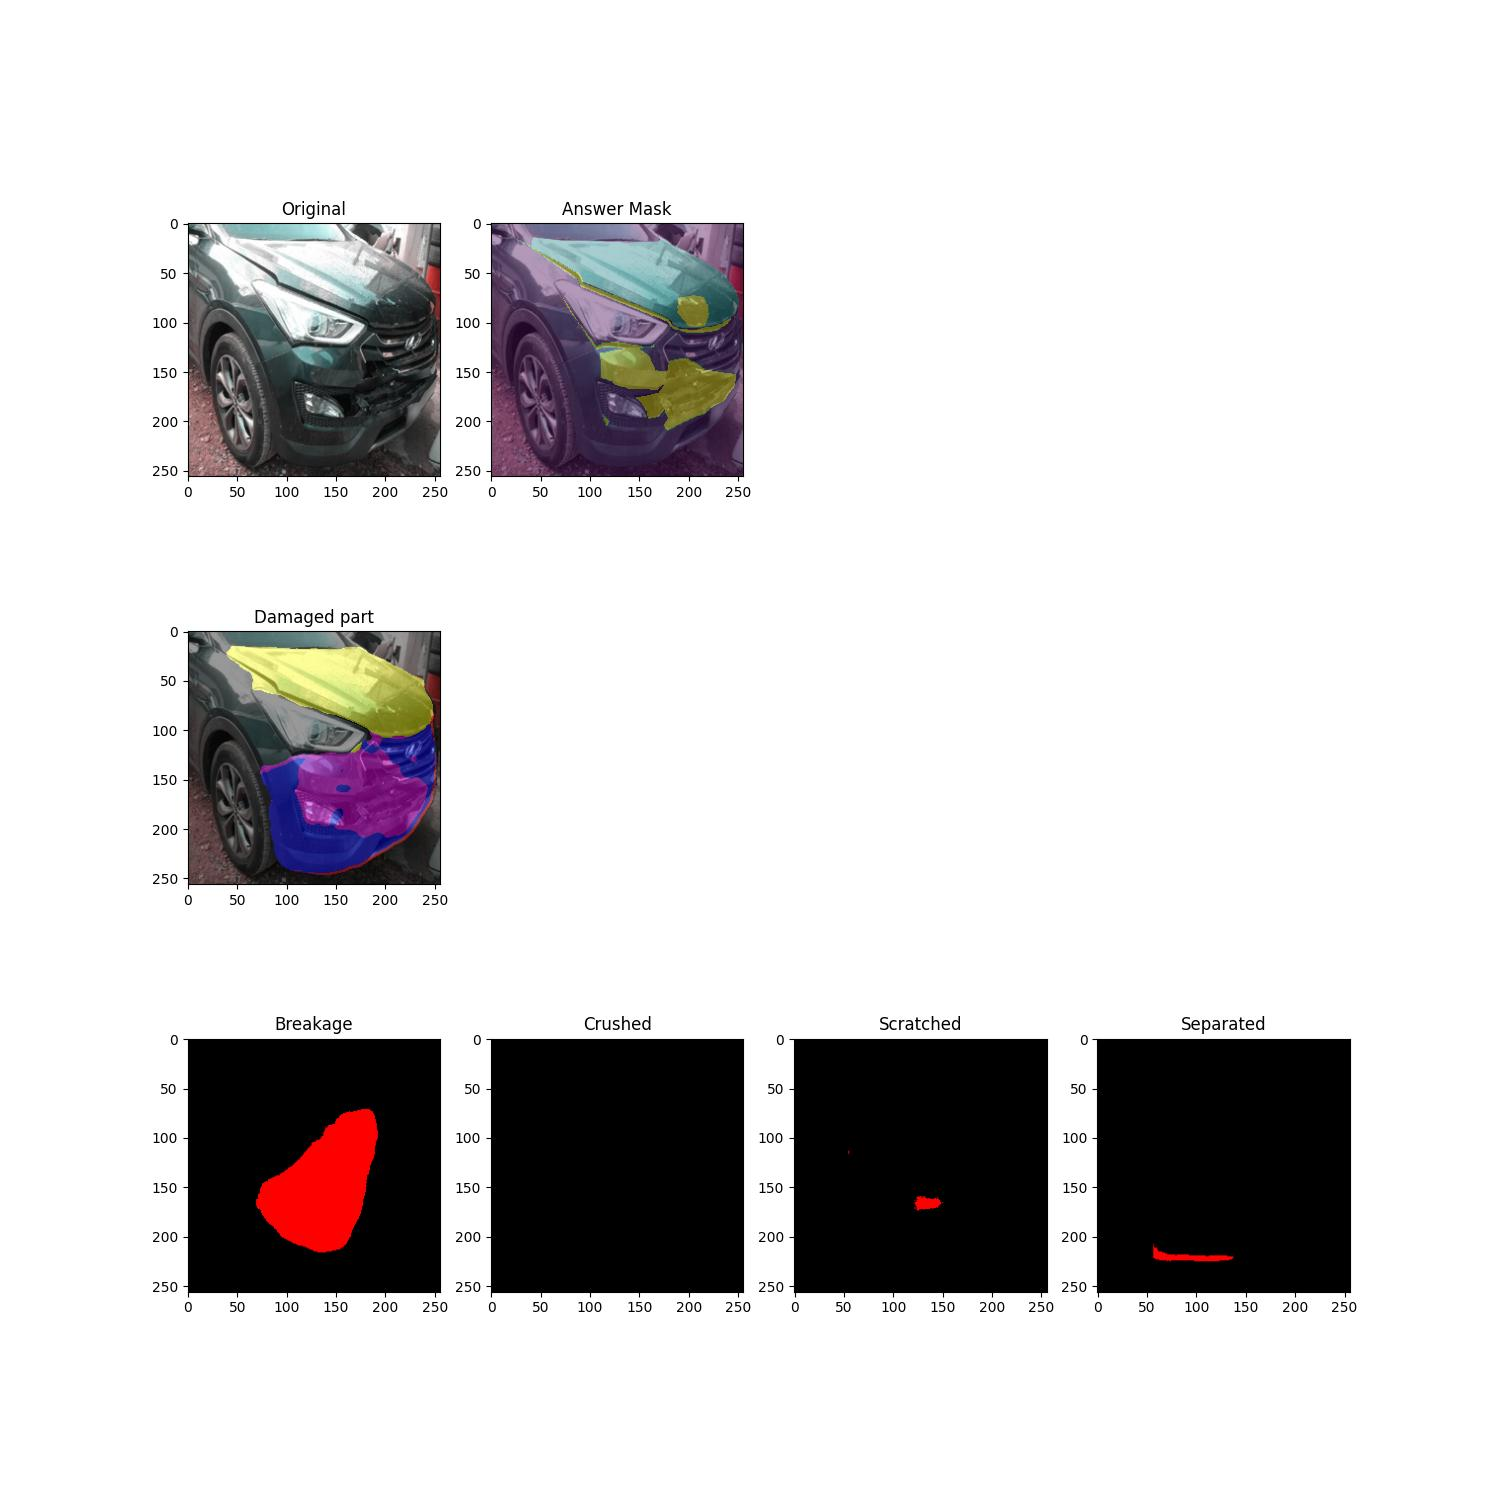
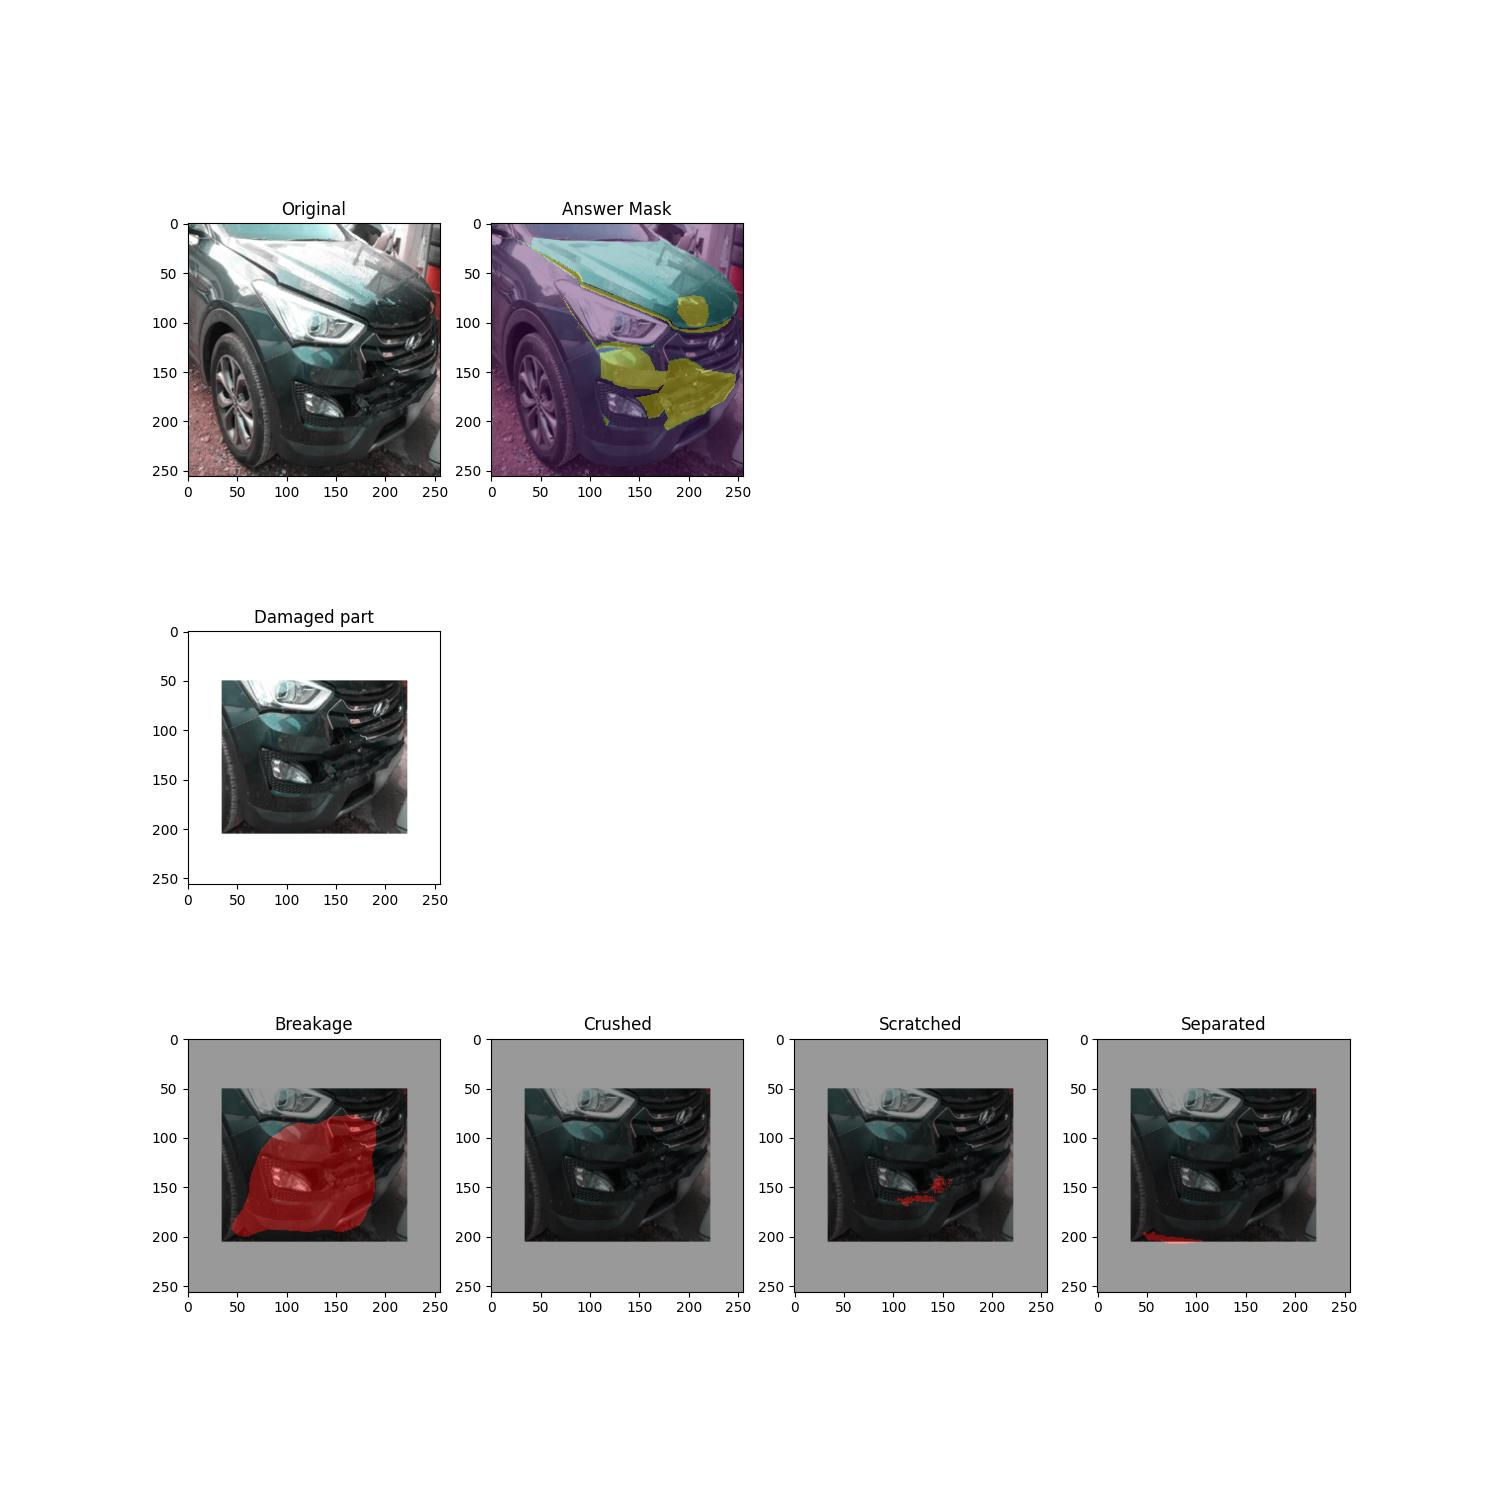
pipeline and api updated

Changed region(s): [[0.1227, 0.6747, 0.92, 0.8587], [0.1227, 0.3987, 0.3067, 0.6133]]

diff --git a/src/api.py b/src/api.py
@@ -1,6 +1,7 @@
 from flask import Flask, Response, request, jsonify
 from flask_cors import CORS
 
+from ultralytics import YOLO
 from Model_UNET import Unet
 from Model_VGG19 import IntelCnnModel
 import torch
@@ -55,37 +56,48 @@ def index():
 
 global origImage
 
-def find_part(predMask):
+def overlap(rect1, rect2):
+     
+    # if rectangle has area 0, no overlap
+    if rect1[0] == rect1[2] or rect1[1] == rect1[3] or rect2[2] == rect2[0] or rect2[1] == rect2[3]:
+        return False
+     
+    # If one rectangle is on left side of other
+    if rect1[0] > rect2[2] or rect2[0] > rect1[2]:
+        return False
+ 
+    # If one rectangle is above other
+    if rect1[3] < rect2[1] or rect2[3] < rect1[1]:
+        return False
+ 
+    return True
+
+def make_part_predictions(model, origImage):
     parts = ["Front bumper","Rear bumper","Front fender(R)","Front fender(L)","Rear fender(R)","Trunk lid","Bonnet","Rear fender(L)","Rear door(R)","Head lights(R)","Head lights(L)","Front Wheel(R)","Front door(R)","Side mirror(R)", "Damage"]
+    damage_indices = []
+    damaged_part_cls = []
+    damaged_part_coor = []
+    damaged_part_conf = []
 
-    # Find and print car part objects
-    data_slices = ndimage.find_objects(predMask)
-    coor = {}
-    try:
-        if ((damage := data_slices[14]) != None):
+    results = model.predict(origImage)
+    results = results[0].cpu().numpy()
 
-            y_start = damage[0].start
-            y_stop = damage[0].stop
+    classes = results.boxes.cls.astype(int)
+    boxes = results.boxes.xyxy.astype(int)
+    conf = results.boxes.conf
 
-            x_start = damage[1].start
-            x_stop = damage[1].stop
+    for num, cls in enumerate(classes):
+        if cls == 14:
+            damage_indices.append(num)
 
-            coor[parts[14]] = (x_start, y_start, x_stop, y_stop)
-           #coor.extend((x_start, y_start, x_stop, y_stop))
+    for dmg_idx in damage_indices:
+        for idx, cls in enumerate(classes):
+            if cls != 14 and overlap(boxes[dmg_idx],boxes[idx]) and parts[cls] not in damaged_part_cls:
+                damaged_part_cls.append(parts[cls])
+                damaged_part_coor.append(boxes[idx])
+                damaged_part_conf.append(conf[idx])
 
-            cut = predMask[y_start:y_stop+1,x_start:x_stop+1,:]
-
-            (values,counts) = np.unique(cut,return_counts=True)
-            count_sort_ind = np.argsort(-counts)
-            for index in count_sort_ind:
-                if values[index] != 0 and values[index] != 15:
-                    coor[parts[values[index]-1]] = (data_slices[values[index]-1][1].start, data_slices[values[index]-1][0].start, data_slices[values[index]-1][1].stop, data_slices[values[index]-1][0].stop)
-                    #print("Part: {}, area: {}%".format(parts[values[index]-1], round((counts[index] / cut.size) * 100, 1)))
-
-            return coor
-
-    except:
-        return None
+    return damaged_part_cls, damaged_part_coor, damaged_part_conf
 
 def find_damage(predMask):
     # Find and print car part objects
@@ -110,24 +122,6 @@ def find_damage(predMask):
     except:
         return None
 
-def make_part_predictions(model, origImage):
-    model.eval()
-    with torch.no_grad():
-    
-        tf_toTensor = ToTensor()
-        image = tf_toTensor(origImage).float().to(DEVICE)
-
-        predMask = model(image.unsqueeze(0))
-        predMask = torch.argmax(predMask, dim=1).detach().cpu().numpy()
-        predMask = np.transpose(predMask, (1,2,0))
-        
-        '''with open(OUTPUT_PATH+'part/predMask.txt', 'w') as outfile:
-                for slice_2d in predMask:
-                    np.savetxt(outfile, slice_2d)'''
-
-        coor = find_part(predMask)
-
-        return (predMask, coor)
 
 def make_damage_predictions(model1, model2, model3, model4, part_img):
     model1.eval()
@@ -207,58 +201,6 @@ def make_damage_predictions(model1, model2, model3, model4, part_img):
 
     return (predMask, val, sum, count)
 
-def load_part_unet_model(weight_path):
-    model = Unet(encoder="resnet34",pre_weight='imagenet',num_classes=16)
-    model = model.to(DEVICE)
-    try:
-        model.model.load_state_dict(torch.load(weight_path, map_location=torch.device('cuda')))
-        return model.model
-    except:
-        try:
-            model.load_state_dict(torch.load(weight_path, map_location=torch.device('cpu')))
-            return model
-        except:
-            model.load_state_dict(torch.load(weight_path, map_location=torch.device('cpu')), strict=False)
-            return model
-
-def load_damage_unet_model(weight_path):
-    model = Unet(encoder="resnet34",pre_weight='imagenet',num_classes=2)
-    model = model.to(DEVICE)
-    try:
-        model.model.load_state_dict(torch.load(weight_path, map_location=torch.device('cuda')))
-        return model.model
-    except:
-        try:
-            model.load_state_dict(torch.load(weight_path, map_location=torch.device('cpu')))
-            return model
-        except:
-            model.load_state_dict(torch.load(weight_path, map_location=torch.device('cpu')), strict=False)
-            return model
-
-def get_severity(model, origImage):
-    tf_toTensor = ToTensor()
-    image = tf_toTensor(origImage).float().to(DEVICE)
-    
-    predictions = model(image.unsqueeze(0))
-    prediction = predictions[0].detach().cpu()
-    severity = np.argmax(prediction)
-
-    return severity
-
-def get_repair_method(model, img):
-    tf_toTensor = ToTensor()
-    image = tf_toTensor(img).float().to(DEVICE)
-    
-    predictions = model(image.unsqueeze(0))
-    prediction = predictions[0].detach().cpu()
-    cl = int(np.argmax(prediction))
-    
-    if cl==0: method = 'detach'
-    elif cl==1: method = 'overhaul'
-    else: method = 'replace'
-    
-    return method
-
 def img_to_str(img):
     img_buffer = BytesIO()
     img.save(img_buffer, format="PNG")
@@ -285,12 +227,7 @@ def main():
         origImage = origImage.resize((256, 256))
 
         #part_prediction
-        part_mask, coor = make_part_predictions(model, origImage)
-        parts = list(coor.keys())[1:]
-        
-        part_coor = []
-        for part in parts:
-            part_coor.append(coor[part])
+        parts, part_coor, conf = make_part_predictions(model, origImage)
         print("Damaged Parts: "+', '.join(parts))
         
         '''for i in range(len(parts)):
@@ -392,16 +329,11 @@ def test():
         
         data["origImage"] = img_to_str(origImage)
         #data["origMask"] = ndarray_to_str(origMask)
-        data["part"] = []
         
         #part_prediction
-        part_mask, coor = make_part_predictions(model, origImage)
-        parts = list(coor.keys())[1:]
-        part_coor = []
-        for part in parts:
-            part_coor.append(coor[part])
-            data["part"].append(part)
+        parts, part_coor, conf = make_part_predictions(model, origImage)
         print("Damaged Parts: "+', '.join(parts))
+        data["part"] = parts
 
         data["info"] = []
         
@@ -496,19 +428,10 @@ def test():
         response.set_data(json.dumps(data))
         return response
 
-def load_part_unet_model(weight_path):
-    model = Unet(encoder="resnet34",pre_weight='imagenet',num_classes=16)
-    model = model.to(DEVICE)
-    try:
-        model.model.load_state_dict(torch.load(weight_path, map_location=torch.device('cuda')))
-        return model.model
-    except:
-        try:
-            model.load_state_dict(torch.load(weight_path, map_location=torch.device('cpu')))
-            return model
-        except:
-            model.load_state_dict(torch.load(weight_path, map_location=torch.device('cpu')), strict=False)
-            return model
+def load_part_yolo_model(weight_path):
+    model = YOLO(weight_path)
+
+    return model
 
 def load_damage_unet_model(weight_path):
     model = Unet(encoder="resnet34",pre_weight='imagenet',num_classes=2)
@@ -534,12 +457,24 @@ def get_severity(model, origImage):
 
     return severity
 
-
+def get_repair_method(model, img):
+    tf_toTensor = ToTensor()
+    image = tf_toTensor(img).float().to(DEVICE)
+    
+    predictions = model(image.unsqueeze(0))
+    prediction = predictions[0].detach().cpu()
+    cl = int(np.argmax(prediction))
+    
+    if cl==0: method = 'detach'
+    elif cl==1: method = 'overhaul'
+    else: method = 'replace'
+    
+    return method
 
 if __name__ == '__main__':
     print("Loading models...")
     #load part model
-    model = load_part_unet_model(weight_path=PART_WEIGHT)
+    model = load_part_yolo_model(weight_path=PART_WEIGHT)
 
     #load damage model
     model1 = load_damage_unet_model(weight_path=BREAKAGE_WEIGHT)

diff --git a/src/pipeline.py b/src/pipeline.py
@@ -16,8 +16,8 @@ from scipy import ndimage
 from skimage import color
 from torch.utils.data import DataLoader
 from torchvision.transforms import ToTensor
-from ultralytics import YOLO
 
+from ultralytics import YOLO
 from Model_UNET import Unet
 from Model_VGG19 import IntelCnnModel
 
@@ -37,30 +37,6 @@ REPAIR_METHOD_WEIGHT = '../weights/repair_method/repair_method_vgg19.pth'
 REPAIR_COST_WEIGHT = '../weights/repair_cost/repair_cost_GradientBoostingRegressor.pkl'
 
 DEVICE = 'cuda' if torch.cuda.is_available() else 'cpu'
-
-
-def find_damage(predMask):
-    # Find and print car part objects
-    data_slices = ndimage.find_objects(predMask)
-    try:
-        if ((damage := data_slices[0]) != None):
-
-            y_start = damage[0].start
-            y_stop = damage[0].stop
-
-            x_start = damage[1].start
-            x_stop = damage[1].stop
-
-            cut = predMask[y_start:y_stop+1,x_start:x_stop+1,:]
-
-            val = round(cut.size/(256*256) * 100, 1)
-            if val < 0.1: 
-                return None
-            else:
-                return val 
-
-    except:
-        return None
     
 def overlap(rect1, rect2):
      
@@ -104,6 +80,29 @@ def make_part_predictions(model, origImage):
                 damaged_part_conf.append(conf[idx])
 
     return damaged_part_cls, damaged_part_coor, damaged_part_conf
+
+def find_damage(predMask):
+    # Find and print car part objects
+    data_slices = ndimage.find_objects(predMask)
+    try:
+        if ((damage := data_slices[0]) != None):
+
+            y_start = damage[0].start
+            y_stop = damage[0].stop
+
+            x_start = damage[1].start
+            x_stop = damage[1].stop
+
+            cut = predMask[y_start:y_stop+1,x_start:x_stop+1,:]
+
+            val = round(cut.size/(256*256) * 100, 1)
+            if val < 0.1: 
+                return None
+            else:
+                return val 
+
+    except:
+        return None
 
 def make_damage_predictions(model1, model2, model3, model4, part_img):
     model1.eval()
@@ -376,6 +375,7 @@ def test():
 
     for i in range(len(parts)):
         print("\nDetecting damage in "+parts[i]+"...\n")
+        print(part_coor[i])
         crop = origImage.crop(part_coor[i])
         width, height = crop.size
         part_img = Image.new(crop.mode, (256,256), (255, 255, 255))
@@ -395,8 +395,8 @@ def test():
         ax[0][3].axis('off')
 
         #part 
-        ax[1][0].imshow(origImage, cmap='gray')
-        ax[1][0].imshow(color.label2rgb(part_mask[:,:,0]), alpha=0.4)
+        ax[1][0].imshow(part_img, cmap='gray')
+        #ax[1][0].imshow(color.label2rgb(part_mask[:,:,0]), alpha=0.4)
         ax[1][0].set_title("Damaged part")
         ax[1][1].axis('off')
         ax[1][2].axis('off')
@@ -406,19 +406,19 @@ def test():
 
         #damage
         ax[2][0].imshow(part_img, cmap='gray')
-        ax[2][0].imshow(color.label2rgb(damage_mask[0][:,:,0]))
+        ax[2][0].imshow(color.label2rgb(damage_mask[0][:,:,0]), alpha=0.4)
         ax[2][0].set_title("Breakage")
 
         ax[2][1].imshow(part_img, cmap='gray')
-        ax[2][1].imshow(color.label2rgb(damage_mask[1][:,:,0]))
+        ax[2][1].imshow(color.label2rgb(damage_mask[1][:,:,0]), alpha=0.4)
         ax[2][1].set_title("Crushed")
 
         ax[2][2].imshow(part_img, cmap='gray')
-        ax[2][2].imshow(color.label2rgb(damage_mask[2][:,:,0]))
+        ax[2][2].imshow(color.label2rgb(damage_mask[2][:,:,0]), alpha=0.4)
         ax[2][2].set_title("Scratched")
 
         ax[2][3].imshow(part_img, cmap='gray')
-        ax[2][3].imshow(color.label2rgb(damage_mask[3][:,:,0]))
+        ax[2][3].imshow(color.label2rgb(damage_mask[3][:,:,0]), alpha=0.4)
         ax[2][3].set_title("Separated")
 
         labels = ['Breakage', 'Crushed', 'Scratched', 'Separated']
